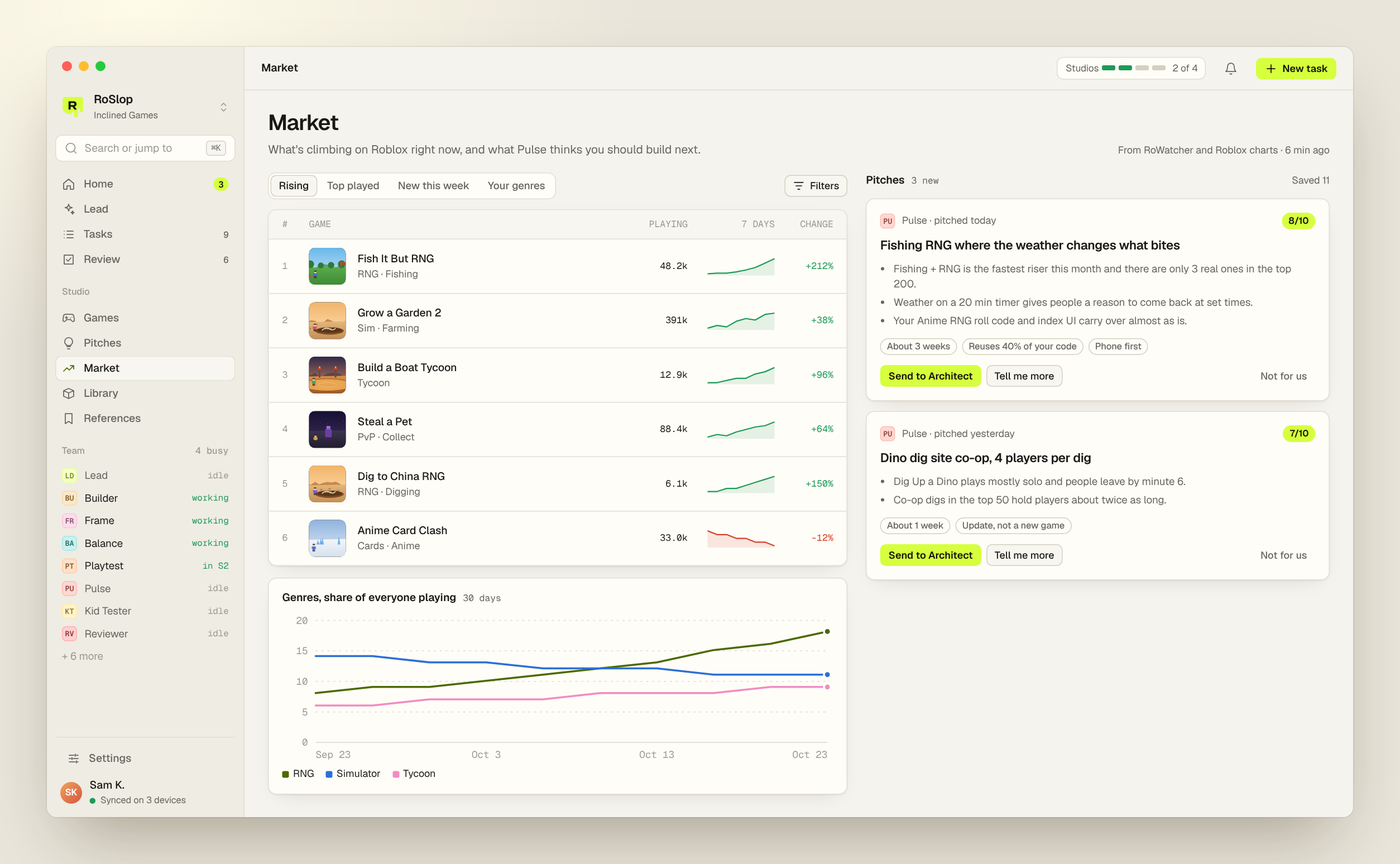
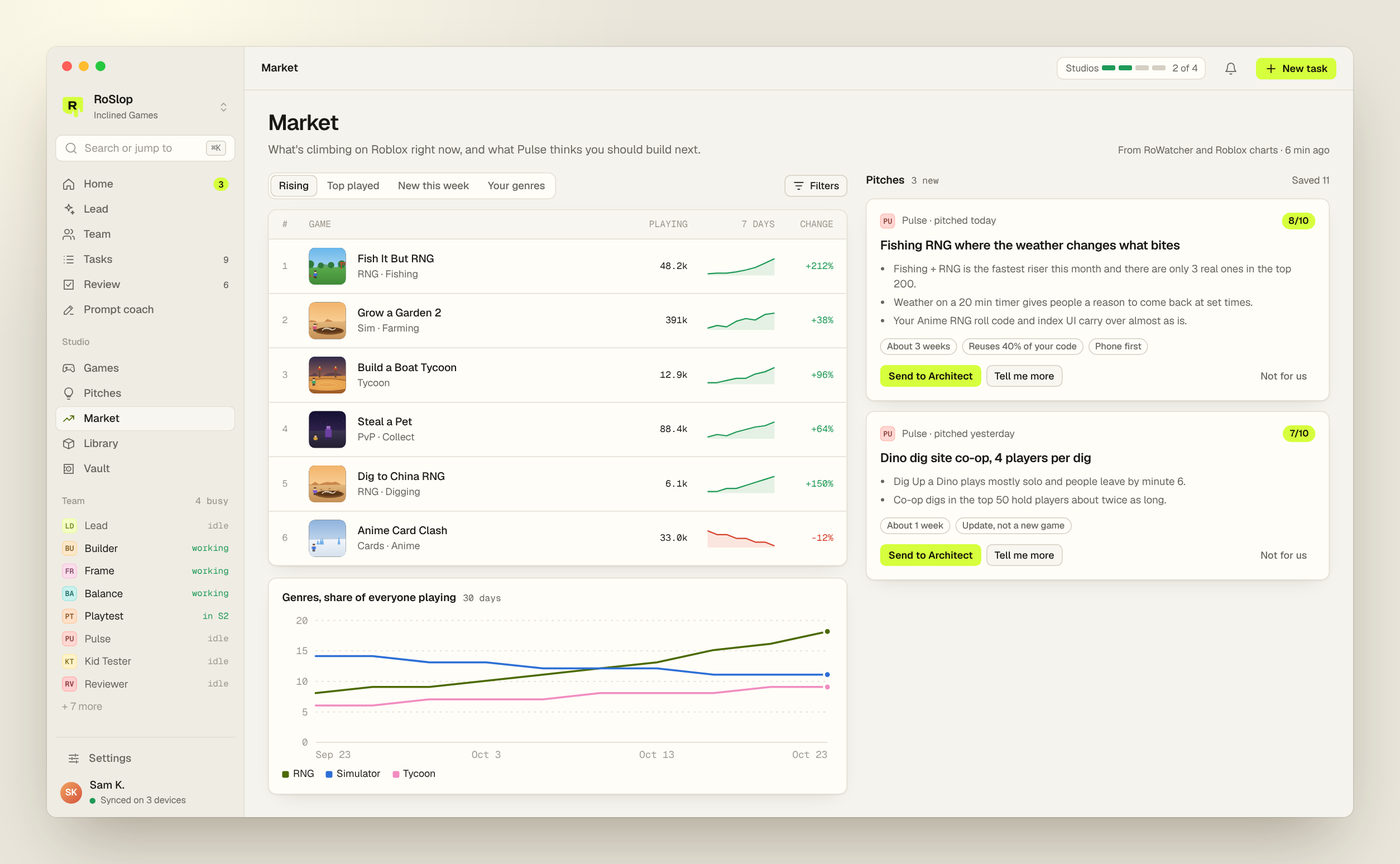
Mockups: team briefs, prompt coach, vault, pipeline, library, pitch detail
Claude-Session: https://claude.ai/code/session_01Rj7wvfXsp5qGivo9iQqRRG

Changed region(s): [[0.0311, 0.4961, 0.0933, 0.8062], [0.0311, 0.2791, 0.0933, 0.4961], [0.1244, 0.6202, 0.1555, 0.6512]]

diff --git a/design/mockups/more.js b/design/mockups/more.js
@@ -1,0 +1,285 @@
+/* ---------- Library stickers ---------- */
+const STK = {
+  gem: `<path d="M30 22h36l14 18-32 38-32-38z" fill="#58b8ff"/><path d="M30 22l8 18h20l8-18 M16 40h64 M38 40l10 38 10-38" fill="none"/><path d="M38 26l-4 10" stroke="#fff" fill="none"/>`,
+  coin: `<circle cx="48" cy="50" r="30" fill="#f7c234"/><circle cx="48" cy="50" r="21" fill="#ffd95c"/><path d="M48 36l4.5 9 10 1.5-7 7 1.6 10L48 59l-9 4.5 1.6-10-7-7 10-1.5z" fill="#f7a823"/>`,
+  chest: `<path d="M20 44h56v30H20z" fill="#b8693a"/><path d="M20 44c0-14 10-22 28-22s28 8 28 22z" fill="#d07c45"/><path d="M20 44h56v8H20z M44 40h8v16h-8z" fill="#f7c234"/>`,
+  gift: `<path d="M20 42h56v34H20z" fill="#ff6fa8"/><path d="M16 32h64v12H16z" fill="#ff8dbd"/><path d="M44 32h8v44h-8z" fill="#ffd95c"/><path d="M48 32c-6-12-20-12-18-2 2 6 12 3 18 2zm0 0c6-12 20-12 18-2-2 6-12 3-18 2z" fill="#ffd95c"/>`,
+  clover: `<circle cx="38" cy="38" r="12" fill="#3fbf5f"/><circle cx="58" cy="38" r="12" fill="#3fbf5f"/><circle cx="38" cy="58" r="12" fill="#3fbf5f"/><circle cx="58" cy="58" r="12" fill="#3fbf5f"/><path d="M48 52c4 12 10 20 18 26" fill="none"/>`,
+  egg: `<path d="M48 18c16 0 26 24 26 38s-11 22-26 22-26-8-26-22 10-38 26-38z" fill="#9fe08a"/><circle cx="40" cy="40" r="5" fill="#5aa848"/><circle cx="58" cy="54" r="7" fill="#5aa848"/><circle cx="40" cy="64" r="4" fill="#5aa848"/>`,
+  potion: `<path d="M40 18h16v16c12 4 18 14 18 24 0 14-11 22-26 22s-26-8-26-22c0-10 6-20 18-24z" fill="#b48cff"/><path d="M26 56h44c0 12-10 20-22 20s-22-8-22-20z" fill="#8a4dff"/><path d="M38 14h20v8H38z" fill="#c98b5a"/>`,
+  sword: `<path d="M62 14l14 4-4 14-30 30-10-10z" fill="#d7e3f0"/><path d="M26 58l12 12-6 6-12-12z" fill="#f7c234"/><path d="M22 70l6 6-8 8-6-6z" fill="#8a5130"/>`,
+  shovel: `<path d="M64 16l12 12-26 26-6-6z" fill="#b8693a"/><path d="M42 48l8 8-8 18c-4 6-14 6-18 2s-4-14 2-18z" fill="#c9d4df"/>`,
+  crown: `<path d="M18 34l16 12 14-22 14 22 16-12-6 38H24z" fill="#f7c234"/><circle cx="48" cy="58" r="5" fill="#ff5a5a"/><circle cx="32" cy="62" r="3.5" fill="#58b8ff"/><circle cx="64" cy="62" r="3.5" fill="#58b8ff"/>`,
+  scroll: `<path d="M28 20h40v56H28z" fill="#f3d9a4"/><rect x="22" y="14" width="52" height="10" rx="5" fill="#d9a85f"/><rect x="22" y="72" width="52" height="10" rx="5" fill="#d9a85f"/><path d="M36 36h24 M36 46h24 M36 56h16" fill="none"/>`,
+  bone: `<path d="M30 30a8 8 0 1 1 10-10l26 26a8 8 0 1 1 10 10 8 8 0 1 1-10 10L40 40a8 8 0 1 1-10-10z" fill="#f3ead6"/>`,
+};
+const sticker = k => `<svg viewBox="0 0 96 96" width="100%" height="100%" style="display:block"><g style="filter:drop-shadow(0 4px 6px rgba(0,0,0,.35))"><g class="stk-o">${STK[k]}</g><g class="stk-f">${STK[k]}</g></g></svg>`;
+
+/* ---------- Team ---------- */
+function team() {
+  const list = [
+    ["lead", "Splitting your Frostpeak ask", "working"], ["builder", "Raid lava + weekly reset", "working"], ["frame", "Loading screen fix", "working"],
+    ["balance", "Skill tree costs", "working"], ["playtest", "Waiting on Builder", "queued"], ["kid", "1 task waiting", "queued"],
+    ["scenic", "1 task waiting", "queued"], ["librarian", "Idle", "idle"], ["architect", "Idle", "idle"], ["pulse", "Watching the charts", "idle"],
+    ["splash", "Idle", "idle"], ["merchant", "Idle", "idle"], ["producer", "Checked 3 moves today", "idle"], ["reviewer", "Idle", "idle"], ["liveops", "Day 14 grade due Fri", "idle"],
+  ];
+  const pill = st => st === "working" ? `<span class="pill ok" style="height:18px">working</span>` : st === "queued" ? `<span class="pill" style="height:18px">queued</span>` : "";
+  const h = t => `<div class="mono dim" style="margin:14px 0 6px">${t}</div>`;
+  return `<div style="display:grid;grid-template-columns:300px 1fr;height:100%">
+    <div style="border-right:1px solid var(--line);padding:16px 10px;overflow:hidden">
+      <div class="row" style="padding:0 8px 10px"><b style="font-weight:600;font-size:15px">Team</b><span class="muted" style="margin-left:auto;font-size:12px">4 working · 15 total</span></div>
+      ${list.map(([k, t, st]) => `<div class="row" style="gap:10px;padding:7px 8px;border-radius:8px;${k === "builder" ? "background:var(--raise);box-shadow:inset 0 0 0 1px var(--line-2)" : ""}">${av(k)}<div class="grow" style="min-width:0"><div style="font-weight:500">${AG[k][0]}</div><div class="muted trunc" style="font-size:11.5px">${t}</div></div>${pill(st)}</div>`).join("")}
+    </div>
+    <div style="display:flex;flex-direction:column;min-height:0">
+      <div class="row" style="padding:16px 24px;border-bottom:1px solid var(--line);gap:12px">${av("builder", "lg")}<div><div class="row" style="gap:8px"><b style="font-size:15px;font-weight:600">Builder</b><span class="pill ok"><span class="dot pulse"></span>Working in Studio 2</span></div><div class="muted" style="font-size:12px">Writes the code and wires up the game · 2 queued after this</div></div>
+        <div class="grow"></div><div class="seg"><a>Chat</a><a class="on">Brief from Lead</a><a>Memory</a><a>Rules</a></div></div>
+      <div style="padding:20px 24px;display:grid;grid-template-columns:1fr 340px;gap:22px;overflow:hidden;flex:1">
+        <div class="card" style="padding:20px 22px;overflow:hidden">
+          <div class="row" style="margin-bottom:4px">${av("lead", "sm")}<span class="muted" style="font-size:12px">Lead wrote this 11m ago from your message "raid lava is broken and the weekly raid never resets"</span></div>
+          <div style="font-size:17px;font-weight:600;letter-spacing:-0.02em;margin:8px 0 2px">Raid lava + weekly raid reset</div>
+          ${h("GOAL")}<div>Lava in the Frostpeak raid should hurt, not kill instantly, and the weekly raid should reset every Monday for everyone.</div>
+          ${h("WHAT'S WRONG NOW")}<ul style="padding-left:18px;display:flex;flex-direction:column;gap:3px"><li>Lava parts use Touched and stack, so players die in under a second</li><li>The weekly timer starts when a server starts, so every server resets at a different time</li></ul>
+          ${h("DO")}<ul style="padding-left:18px;display:flex;flex-direction:column;gap:3px"><li>One damage tick per player per 0.5s, 20 damage per tick, server side</li><li>Respawn at the raid gate, not the hub</li><li>Reset on Monday 00:00 UTC using os.time, saved in the RaidState DataStore</li></ul>
+          ${h("DON'T")}<div>Touch the boss AI or the loot table. Balance owns those this week.</div>
+          ${h("DONE WHEN")}<div>A 2 player test survives 10s in lava, and changing the clock to Monday resets the raid on two separate servers.</div>
+          ${h("READ FIRST")}<div class="row" style="gap:6px;flex-wrap:wrap">${["Vault / Raids and bosses", "Vault / Saving data safely", "Library / RaidState system"].map(t => `<span class="pill">${ic("vault", "width:12px;height:12px")}${t}</span>`).join("")}</div>
+          ${h("SEND BACK")}<div>A 15s clip of the lava and the diff. Playtest runs it after you.</div>
+          <div class="row" style="margin-top:16px;gap:8px"><button class="btn sm">${ic("prompt", "width:14px;height:14px")}Edit brief</button><span class="muted" style="font-size:12px">Edits go to Builder right away. The Lead sees them too.</span></div>
+        </div>
+        <div style="display:flex;flex-direction:column;gap:12px;min-height:0">
+          <div class="sec-h" style="margin:0"><h3>Live</h3><span class="c">Studio 2</span></div>
+          ${thumb("arena", 9, { tag: "S2 LIVE", hud: "BUILDER", vfxSize: 30, vfx: "#ff6a2a", sparks: 12, k: "tm" })}
+          <div class="card" style="padding:4px 14px">
+            ${[["11:02", "Read the 3 notes in Read first"], ["11:04", "Found 14 lava parts using Touched"], ["11:06", "Wrote RaidLava.server.lua"], ["11:09", "Weekly reset now uses os.time"], ["now", "Testing with 2 players"]].map(([t, l], i) => `<div class="row" style="gap:10px;padding:7px 0;${i ? "border-top:1px solid var(--line)" : ""}"><span class="mono dim" style="width:34px">${t}</span><span class="${t === "now" ? "" : "muted"}" style="font-size:12.5px">${l}</span></div>`).join("")}
+          </div>
+          <div class="input" style="margin-top:auto">${ic("msg")}Message Builder directly</div>
+        </div>
+      </div>
+    </div>
+  </div>`;
+}
+
+/* ---------- Prompt coach ---------- */
+function promptCoach() {
+  const check = (ok, t, hint) => `<div class="row" style="gap:10px;padding:8px 0;border-top:1px solid var(--line);align-items:flex-start"><span style="width:18px;height:18px;border-radius:99px;display:grid;place-items:center;flex:none;background:${ok ? "color-mix(in srgb,var(--ok) 18%,transparent)" : "color-mix(in srgb,var(--warn) 18%,transparent)"};color:${ok ? "var(--ok)" : "var(--warn)"}">${ic(ok ? "check" : "plus", "width:11px;height:11px;stroke-width:2.5")}</span><div class="grow"><div style="font-weight:500">${t}</div>${hint ? `<div class="muted" style="font-size:12px">${hint}</div>` : ""}</div></div>`;
+  const add = t => `<span style="background:color-mix(in srgb,var(--accent) 16%,transparent);box-shadow:inset 0 -1px 0 var(--accent-text);border-radius:3px;padding:0 2px">${t}</span>`;
+  const tpl = [["New boss fight", "Moves, phases, arena, who it's for"], ["I found a bug", "What you did, what happened, what you expected"], ["First 5 minutes", "Where people quit and what they should feel"], ["Copy a feeling", "Drop a clip, say what you like about it"], ["Add a shop item", "Price, who buys it, what it can't break"], ["Balance pass", "What feels too slow or too fast, and when"]];
+  return `
+  <div class="row" style="align-items:flex-end;margin-bottom:18px"><div class="grow"><h1 class="page">Prompt coach</h1><p class="lede">Write it however you want. This shows what the agents will have to guess, and fixes it before it goes to the Lead.</p></div></div>
+  <div style="display:grid;grid-template-columns:1fr 1fr;gap:20px">
+    <div style="display:flex;flex-direction:column;gap:14px">
+      <div class="card" style="padding:16px">
+        <div class="row" style="margin-bottom:10px"><b style="font-weight:600">What you wrote</b><span class="pill" style="margin-left:auto">Anime Awakening RNG</span></div>
+        <div style="font-size:15px;line-height:1.5;min-height:60px">add a boss to frostpeak thats actually hard, like dark souls hard. players are bored</div>
+        <div class="row" style="margin-top:14px;gap:12px"><div class="grow"><div class="row" style="font-size:12px"><span class="muted grow">How much the agents have to guess</span><b style="color:var(--warn)">a lot</b></div><div class="bar" style="margin-top:6px;height:6px"><i style="width:30%;background:var(--warn)"></i></div></div></div>
+      </div>
+      <div class="card" style="padding:6px 16px 8px">
+        ${check(true, "Which game and where", "Frostpeak, Anime Awakening RNG")}
+        ${check(true, "Why you want it", "Players are bored. Good, the Lead will check the data on that")}
+        ${check(false, "Who should be able to beat it", "Level 30 squad? Only the top 5%? This changes everything about the numbers")}
+        ${check(false, "What hard means to you", "More HP is the lazy version. Dodgeable attacks? Phases? A timer?")}
+        ${check(false, "When it's done", "e.g. Playtest beats it in 3 to 6 tries with a level 30 squad")}
+        ${check(false, "A reference", "A clip or a boss you like. Drag one in or pick from References")}
+      </div>
+      <div class="card" style="padding:14px 16px"><div style="font-weight:600;margin-bottom:8px">Quick answers</div>
+        <div class="muted" style="font-size:12px;margin-bottom:8px">Who should beat it?</div>
+        <div class="row" style="gap:6px;flex-wrap:wrap">${["Anyone past level 20", "Level 30 squads", "Top 5% only", "4 player raids"].map((t, i) => `<span class="pill ${i === 1 ? "acc" : ""}" style="height:26px;padding:0 10px">${t}</span>`).join("")}</div>
+        <div class="muted" style="font-size:12px;margin:12px 0 8px">What makes it hard?</div>
+        <div class="row" style="gap:6px;flex-wrap:wrap">${["Attacks you can dodge", "Phases", "Adds", "Enrage timer", "More HP"].map((t, i) => `<span class="pill ${i < 2 ? "acc" : ""}" style="height:26px;padding:0 10px">${t}</span>`).join("")}</div>
+      </div>
+    </div>
+    <div style="display:flex;flex-direction:column;gap:14px">
+      <div class="card" style="padding:16px;border-color:var(--line-2)">
+        <div class="row" style="margin-bottom:10px"><b style="font-weight:600">What the Lead will get</b><span class="muted" style="margin-left:auto;font-size:12px">${add("highlighted")} = added from your answers</span></div>
+        <div style="font-size:13.5px;line-height:1.6;display:flex;flex-direction:column;gap:8px">
+          <p>Add a new boss to Frostpeak in Anime Awakening RNG. Players say it's boring right now, so this should be the fight people talk about.</p>
+          <p>It's for ${add("level 30 squads")}. Hard should come from ${add("attacks you can see coming and dodge, and 3 phases")}, not from a huge HP bar.</p>
+          <p>Done when ${add("Playtest beats it in 3 to 6 tries with a level 30 squad, and a level 20 squad can't")}.</p>
+          <p>${add("Look at the Lord Frozza fight for what not to repeat: the red floor covered everything.")}</p>
+        </div>
+        <div class="row" style="gap:8px;margin-top:16px"><button class="btn pri">${ic("up", "width:14px;height:14px")}Send to Lead</button><button class="btn">${ic("copy", "width:14px;height:14px")}Copy</button><button class="btn ghost">Send mine as is</button></div>
+      </div>
+      <div class="card" style="padding:16px">
+        <div class="sec-h"><h3>Start from a template</h3><span class="r">Make your own</span></div>
+        <div style="display:grid;grid-template-columns:1fr 1fr;gap:8px">${tpl.map(([t, d]) => `<div class="card" style="box-shadow:none;background:var(--raise);padding:10px 12px"><div style="font-weight:500">${t}</div><div class="muted" style="font-size:12px">${d}</div></div>`).join("")}</div>
+      </div>
+      <div class="card" style="padding:14px 16px">
+        <div style="font-weight:600;margin-bottom:6px">Things that actually help</div>
+        <ul class="muted" style="padding-left:16px;font-size:12.5px;display:flex;flex-direction:column;gap:3px"><li>Say what done looks like. The agents stop guessing when they know where the finish line is.</li><li>One clip beats three paragraphs about a vibe.</li><li>Say what not to touch. Otherwise someone will "improve" it.</li></ul>
+      </div>
+    </div>
+  </div>`;
+}
+
+/* ---------- Vault ---------- */
+function vault() {
+  const chapters = ["Start here", "The first five minutes", "Core loop", "Rolls and rarity", "Economy and progression", "UI and HUD", "World and lighting", "VFX, models and sound", "Phones", "Shops", "Coming back tomorrow", "Thumbnails and icons", "Updates and events", "Code that doesn't break"];
+  const counts = [3, 12, 9, 16, 21, 18, 11, 14, 8, 10, 9, 7, 6, 22];
+  const learned = [
+    ["playtest", "Sell buttons on phones go above the chat box", "From playtest run #14 · Dig Up a Dino", "Phones"],
+    ["balance", "Cap hero power at 4x a common, two exceptions", "You decided this on Oct 23", "Rolls and rarity"],
+    ["reviewer", "Save before you grant a daily reward, never after", "From a blocked ship · Dig Up a Dino", "Code that doesn't break"],
+  ];
+  return `<div style="display:grid;grid-template-columns:250px 1fr 330px;height:100%">
+    <div style="border-right:1px solid var(--line);padding:18px 12px;overflow:hidden">
+      <div class="row" style="padding:0 6px 4px"><b style="font-weight:600;font-size:15px">Vault</b><span class="mono dim" style="margin-left:auto">166 notes</span></div>
+      <div class="muted" style="font-size:11.5px;padding:0 6px 12px" class="trunc">~/Documents/Inclined Vault</div>
+      ${chapters.map((c, i) => `<div class="row" style="gap:8px;height:28px;padding:0 6px;border-radius:6px;font-size:12.5px;${i === 3 ? "background:var(--raise);box-shadow:inset 0 0 0 1px var(--line-2);font-weight:500" : "color:var(--muted)"}"><span class="mono dim" style="width:18px">${String(i).padStart(2, "0")}</span><span class="grow trunc">${c}</span><span class="mono dim">${counts[i]}</span></div>`).join("")}
+      <div class="row" style="gap:8px;height:28px;padding:0 6px;font-size:12.5px;color:var(--accent-text);margin-top:4px">${ic("plus", "width:13px;height:13px")}New chapter</div>
+    </div>
+    <div style="padding:22px 28px;overflow:hidden">
+      <div class="row" style="margin-bottom:14px;gap:8px"><span class="muted" style="font-size:12px">Vault</span>${ic("right", "width:12px;height:12px;color:var(--dim)")}<span class="muted" style="font-size:12px">03 Rolls and rarity</span><div class="grow"></div><button class="btn sm">${ic("ext", "width:13px;height:13px")}Open in Obsidian</button></div>
+      <h1 class="page" style="font-size:24px">Rolls and rarity</h1>
+      <div class="card" style="box-shadow:none;padding:10px 14px;margin:14px 0;background:var(--raise)">
+        <div class="row" style="gap:12px;padding:3px 0"><span class="muted" style="width:90px;font-size:12px">Read by</span>${["balance", "architect"].map(k => `<span class="row" style="gap:5px">${av(k, "sm")}${AG[k][0]}</span>`).join("")}</div>
+        <div class="row" style="gap:12px;padding:3px 0"><span class="muted" style="width:90px;font-size:12px">Also checks it</span>${["builder", "merchant", "frame"].map(k => `<span class="row" style="gap:5px">${av(k, "sm")}${AG[k][0]}</span>`).join("")}</div>
+        <div class="row" style="gap:12px;padding:3px 0"><span class="muted" style="width:90px;font-size:12px">Last edit</span><span>Balance, 2 days ago · you approved it</span></div>
+      </div>
+      <div style="display:flex;flex-direction:column;gap:10px;font-size:13.5px;line-height:1.6;max-width:640px">
+        <p>Any game where you roll, open, hatch, dig or spin for something lives or dies on how the odds feel. This is what we've learned about making a rare pull feel worth the wait.</p>
+        <h3 style="font-size:15px;margin-top:6px">Rules we stick to</h3>
+        <ol style="padding-left:20px;display:flex;flex-direction:column;gap:5px">
+          <li><b>Show the odds.</b> Players trust a 1 in 2.5M they can see more than a mystery.</li>
+          <li><b>Pity, always.</b> After a bad streak the next roll gets better. Nobody should go 10,000 rolls with nothing.</li>
+          <li><b>Duplicates are never junk.</b> They turn into upgrade material or index progress.</li>
+          <li><b>The reveal is half the reward.</b> Rarer means a longer, louder reveal, but skippable after the first time.</li>
+          <li><b>Power caps at 4x.</b> Past that, people who get lucky early stop playing. <span class="pill info" style="height:18px">added Oct 23</span></li>
+        </ol>
+        <div class="row" style="gap:10px;margin-top:4px">${thumb("night", 41, { tag: "GOOD · slow reveal", vfxSize: 40, vfx: "#b48cff", sparks: 20, k: "v1", style: "width:220px" })}${thumb("grove", 42, { tag: "BAD · instant popup", guys: 2, k: "v2", style: "width:220px" })}</div>
+      </div>
+    </div>
+    <div style="border-left:1px solid var(--line);padding:20px;display:flex;flex-direction:column;gap:16px;background:var(--side)">
+      <div class="card" style="padding:16px">
+        <div style="font-weight:600;margin-bottom:4px">Grow it with the agents</div>
+        <div class="muted" style="font-size:12.5px;margin-bottom:12px">Starting from nothing, or yours is thin? The agents write notes from your games, your Review history and what's working on the charts. You approve every page.</div>
+        <button class="btn pri" style="width:100%;justify-content:center">${ic("lead", "width:14px;height:14px")}Start building the vault</button>
+        <div class="dim" style="font-size:11.5px;margin-top:8px;text-align:center">Takes about an hour on your PC</div>
+      </div>
+      <div><div class="sec-h"><h3>Learned this week</h3><span class="c">3 to approve</span></div>
+        <div style="display:flex;flex-direction:column;gap:8px">${learned.map(([k, t, src, ch]) => `<div class="card" style="padding:12px 14px"><div class="row" style="margin-bottom:5px">${av(k, "sm")}<span class="muted" style="font-size:11.5px">${AG[k][0]} · into ${ch}</span></div><div style="font-weight:500;line-height:1.35">${t}</div><div class="dim" style="font-size:11.5px;margin-top:3px">${src}</div><div class="row" style="gap:6px;margin-top:10px"><button class="btn sm">Add to vault</button><button class="btn sm ghost">Skip</button></div></div>`).join("")}</div>
+      </div>
+      <div class="row muted" style="gap:8px;font-size:12px;margin-top:auto">${ic("reload", "width:13px;height:13px")}Watching the folder. Edits in Obsidian show up here.</div>
+    </div>
+  </div>`;
+}
+
+/* ---------- Pipeline ---------- */
+function pipeline() {
+  const cols = [
+    ["Pitched", "pulse", [["Dino co-op digs", "update", 2]]],
+    ["Designed", "architect", [["Fishing weather RNG", "new game", 4]]],
+    ["Assets ready", "librarian", []],
+    ["Built", "builder", []],
+    ["Balanced", "balance", [["Dig Up a Dino", "v0.9", 7, true]]],
+    ["Art done", "splash", []],
+    ["Ready to publish", "producer", [["Anime Awakening RNG", "v1.5", 11]]],
+    ["Live", null, [["Anime Awakening RNG", "v1.4", 0, false, true]]],
+    ["Graded", "liveops", [["Anime Awakening RNG", "v1.3", 0, false, false, "Day 14: 18% came back"]]],
+  ];
+  const card = ([n, v, proof, moving, live, grade]) => `<div class="card" style="padding:11px 12px;${moving ? "box-shadow:inset 0 0 0 1.5px var(--ok)" : ""}">
+    <div style="font-weight:600;font-size:12.5px;line-height:1.3">${n}</div><div class="mono dim" style="margin-top:2px">${v}</div>
+    ${grade ? `<div class="muted" style="font-size:11.5px;margin-top:8px">${grade}</div>` : ""}
+    ${proof ? `<div class="row" style="gap:6px;margin-top:8px;font-size:11.5px" class="muted">${ic("review", "width:12px;height:12px;color:var(--muted)")}<span class="muted">${proof} pieces of proof</span></div>` : ""}
+    ${moving ? `<div class="row" style="gap:6px;margin-top:8px">${av("producer", "sm")}<span style="font-size:11.5px;color:var(--ok)">Producer checking the move</span></div>` : ""}
+    ${live ? `<div class="row" style="gap:6px;margin-top:8px"><span class="dot pulse"></span><span style="font-size:11.5px">214 playing</span></div>` : ""}
+    ${n === "Anime Awakening RNG" && v === "v1.5" ? `<button class="btn sm pri" style="width:100%;justify-content:center;margin-top:10px">Publish</button>` : ""}
+  </div>`;
+  return `
+  <div class="row" style="align-items:flex-end;margin-bottom:18px"><div class="grow"><h1 class="page">Pipeline</h1><p class="lede">Every game and update, stage by stage. Agents move the cards, Producer checks the proof on every move, and only you can publish.</p></div>
+    <div class="seg"><a class="on">Board</a><a>List</a></div></div>
+  <div style="display:grid;grid-template-columns:repeat(9,1fr);gap:10px;align-items:start">
+    ${cols.map(([name, who, cards]) => `<div style="min-width:0">
+      <div class="row" style="gap:6px;margin-bottom:8px;padding:0 2px">${who ? av(who, "sm") : `<span class="av sm" style="--c:#d6ff3d">${ic("user", "width:11px;height:11px")}</span>`}<b style="font-size:12px;font-weight:600" class="trunc">${name}</b><span class="mono dim" style="margin-left:auto">${cards.length}</span></div>
+      <div style="display:flex;flex-direction:column;gap:8px;min-height:420px;padding:6px;border-radius:10px;background:color-mix(in srgb,var(--panel) 50%,transparent);border:1px dashed var(--line)">
+        ${cards.map(card).join("")}
+        ${name === "Live" ? `<div class="dim" style="font-size:11px;text-align:center;padding:6px">Only you can move things here</div>` : ""}
+      </div></div>`).join("")}
+  </div>
+  <div class="card" style="padding:12px 16px;margin-top:16px"><div class="row" style="gap:12px">${av("producer")}<div class="grow"><b style="font-weight:600">Dig Up a Dino wants to move to Art done</b><div class="muted" style="font-size:12px">Balance ran 500 sims, first upgrade lands at 4m 10s, nobody stalls past 9 minutes. 7 pieces of proof attached.</div></div><button class="btn sm">See the proof</button><button class="btn sm ghost">Hold it</button></div></div>`;
+}
+
+/* ---------- Library ---------- */
+function library() {
+  const items = [["gem", "Gem", "icon", "1452 0198 3341"], ["chest", "Daily chest", "icon", "1452 0198 7712"], ["coin", "Coin", "icon", "1452 0201 0042"], ["gift", "Free gift", "icon", "1452 0201 2219"], ["clover", "Luck", "icon", "1452 0203 4410"], ["potion", "Luck potion", "icon", "1452 0203 9981"],
+    ["egg", "Dino egg", "model", "1452 1102 3301"], ["sword", "Starter sword", "model", "1452 1102 5520"], ["shovel", "Shovel", "model", "1452 1104 0007"], ["crown", "VIP", "icon", "1452 0207 1178"], ["scroll", "Quests", "icon", "1452 0207 6602"], ["bone", "Fossil", "model", "not uploaded"]];
+  return `
+  <div class="row" style="align-items:flex-end;margin-bottom:16px"><div class="grow"><h1 class="page">Library</h1><p class="lede">Everything you own and can reuse. Every new task checks here first, so the agents don't make a fourth coin icon.</p></div>
+    <button class="btn pri">${ic("upload", "width:14px;height:14px")}Upload</button></div>
+  <div class="row" style="margin-bottom:14px;gap:10px"><div class="seg"><a class="on">Assets <span class="mono">214</span></a><a>Systems <span class="mono">38</span></a><a>References <span class="mono">52</span></a></div>
+    <div class="seg"><a class="on">All</a><a>Models</a><a>Icons</a><a>Sounds</a><a>VFX</a><a>UI</a></div><div class="grow"></div>
+    <div class="input" style="width:240px">${ic("search")}Search names or asset ids</div><button class="btn">Any game ${ic("down", "width:13px;height:13px")}</button></div>
+  <div class="card" style="padding:16px 18px;margin-bottom:16px;border-style:dashed;box-shadow:none;display:flex;align-items:center;gap:14px">
+    <span style="width:40px;height:40px;border-radius:10px;background:var(--raise);display:grid;place-items:center;color:var(--accent-text)">${ic("upload")}</span>
+    <div class="grow"><div style="font-weight:600">Drop files anywhere on this page</div><div class="muted" style="font-size:12.5px">Images, .fbx, .obj, .rbxm, .mp3 and .ogg. They get uploaded to Roblox, get an asset id, and the agents can use them in the next task.</div></div>
+    <div class="row muted" style="gap:6px;font-size:12px"><span class="dot"></span>2 uploading</div>
+  </div>
+  <div style="display:grid;grid-template-columns:repeat(6,1fr);gap:12px">
+    ${items.map(([k, n, t, id]) => `<div class="card" style="padding:10px;box-shadow:none">
+      <div style="aspect-ratio:1;border-radius:8px;background:radial-gradient(circle at 50% 40%,var(--hover),var(--raise));display:grid;place-items:center;padding:16%">${sticker(k)}</div>
+      <div class="row" style="margin-top:8px"><b style="font-weight:600" class="grow">${n}</b><span class="pill" style="height:18px;font-size:10px">${t}</span></div>
+      <div class="mono ${id.startsWith("not") ? "" : "dim"}" style="margin-top:3px;${id.startsWith("not") ? "color:var(--warn)" : ""}">${id.startsWith("not") ? "not uploaded yet" : "rbx " + id}</div></div>`).join("")}
+  </div>`;
+}
+
+/* ---------- Pitch ---------- */
+function pitch() {
+  const stat = (l, v, s, c) => `<div class="card" style="padding:12px 14px;box-shadow:none"><div class="mono dim">${l}</div><div style="font-size:21px;font-weight:600;letter-spacing:-0.02em;margin-top:2px;${c ? `color:${c}` : ""}">${v}</div><div class="muted" style="font-size:11.5px">${s}</div></div>`;
+  const row = (k, v) => `<div class="row" style="align-items:flex-start;gap:16px;padding:8px 0;border-top:1px solid var(--line)"><span class="muted" style="width:150px;flex:none">${k}</span><span>${v}</span></div>`;
+  return `
+  <div class="row" style="margin-bottom:14px;gap:10px"><div class="seg"><a class="on">Needs your call <span class="mono">3</span></a><a>Waiting on Pulse <span class="mono">1</span></a><a>Your ideas <span class="mono">2</span></a><a>History</a></div><div class="grow"></div><button class="btn">${ic("grid", "width:14px;height:14px")}Compare side by side</button><button class="btn pri">${ic("plus", "width:14px;height:14px")}I have an idea</button></div>
+  <div style="display:grid;grid-template-columns:1fr 320px;gap:20px">
+    <div class="card" style="overflow:hidden">
+      <div style="display:flex;gap:16px;padding:20px 22px;border-bottom:1px solid var(--line)">
+        <div style="width:96px;flex:none">${thumb("grove", 51, { ar: "1/1", guys: 1, vfxSize: 20, vfx: "#7fd0ff", sparks: 6, style: "border-radius:14px" })}</div>
+        <div class="grow"><div class="row" style="gap:6px;margin-bottom:8px">${["early window", "RNG + fishing", "new game"].map((t, i) => `<span class="pill ${i === 0 ? "ok" : ""}">${t}</span>`).join("")}<span class="pill acc" style="margin-left:auto">8/10</span></div>
+          <div style="font-size:22px;font-weight:600;letter-spacing:-0.025em">Fishing RNG where the weather changes what bites</div>
+          <div class="muted" style="margin-top:4px">Cast, wait, reel, roll for what's on the hook. Every 20 minutes the weather flips and a different set of fish shows up.</div></div>
+      </div>
+      <div style="padding:18px 22px">
+        <div class="card" style="box-shadow:none;padding:12px 14px;background:var(--raise);margin-bottom:14px"><div class="mono dim" style="margin-bottom:4px">WHY THIS ONE</div>
+          <div>Fish It But RNG went from 2k to 48k players in 3 weeks and almost nobody has copied it well yet. The weather timer is the twist: it gives people a reason to come back at set times, which none of the top 3 have.</div>
+          <div class="row" style="gap:6px;margin-top:8px"><span class="pill">vs Fish It But RNG</span><span class="pill">vs Reel Legends</span></div></div>
+        <div style="display:grid;grid-template-columns:repeat(5,1fr);gap:8px;margin-bottom:16px">
+          ${stat("TOP EARNING", "#38", "Fish It But RNG", "var(--accent-text)")}${stat("PLAYING NOW", "48.2k", "top comparable")}${stat("LIKES", "92%", "80%+ gets pushed", "var(--ok)")}${stat("UPVOTES / DAY", "3.1k", "still climbing")}${stat("SIMILAR GAMES", "3", "in the top 200")}
+        </div>
+        <div style="font-weight:600;margin-bottom:4px">The game</div>
+        ${row("First 60 seconds", "Grab the free rod, cast off the dock, land a common in under 20 seconds and see the roll odds on screen.")}
+        ${row("By minute 15", "First rare in rain weather and enough coins for rod #2, which unlocks the lake.")}
+        ${row("Minutes 15 to 30", "Weather flips to fog. New fish, so the index has fresh blanks to fill.")}
+        ${row("How it makes money", "2x luck, a weather skip, and boats as cosmetics. Nothing that wins the leaderboard.")}
+        ${row("The clip moment", "A 1 in a million fish breaking the water during a thunderstorm.")}
+        ${row("Reuses", `<span class="row" style="gap:6px;flex-wrap:wrap"><span class="pill">${ic("library", "width:11px;height:11px")}Roll + reveal system</span><span class="pill">${ic("library", "width:11px;height:11px")}Index UI</span><span class="pill">${ic("library", "width:11px;height:11px")}Daily chest</span></span>`)}
+      </div>
+      <div class="row" style="gap:8px;padding:14px 22px;border-top:1px solid var(--line);background:var(--raise)"><button class="btn pri">${ic("check", "width:14px;height:14px")}Approve</button><button class="btn">Edit and approve</button><button class="btn">Ask for changes</button><div class="grow"></div><button class="btn ghost">Decline</button></div>
+    </div>
+    <div style="display:flex;flex-direction:column;gap:14px">
+      <div class="card" style="padding:14px 16px"><div class="sec-h"><h3>Evidence</h3><span class="c">3</span></div>
+        ${[["Fish It But RNG", "48.2k", "+212%", [2, 3, 3, 5, 8, 12, 19, 26]], ["Reel Legends", "9.1k", "+18%", [6, 6, 7, 7, 8, 8, 9, 9]], ["Weather RNG", "2.4k", "+41%", [2, 2, 3, 3, 3, 4, 4, 5]]].map(([n, c, ch, d], i) => `<div class="row" style="gap:10px;padding:8px 0;${i ? "border-top:1px solid var(--line)" : ""}"><div class="grow"><div style="font-weight:500">${n}</div><div class="mono dim">${c} playing</div></div>${spark(d, 60, 20)}<span class="mono" style="color:var(--ok);width:44px;text-align:right">${ch}</span></div>`).join("")}
+        <div class="muted" style="font-size:11.5px;margin-top:6px">From RoWatcher and Roblox charts, 6 min ago</div></div>
+      <div class="card" style="padding:14px 16px"><div class="sec-h"><h3>Risks</h3><span class="c">2</span></div>
+        <ul class="muted" style="padding-left:16px;font-size:12.5px;display:flex;flex-direction:column;gap:5px"><li>If Fish It ships its own weather update first, the twist is gone. Pulse is watching their changelog.</li><li>Water and fishing line physics are new for the team. Builder thinks 3 days on its own.</li></ul></div>
+      <div class="card" style="padding:14px 16px"><div class="sec-h"><h3>Building it</h3></div>
+        <div class="muted" style="font-size:12.5px">About 3 weeks with the current team. Architect writes the plan the moment you approve.</div></div>
+    </div>
+  </div>`;
+}
+
+Object.assign(SHOTS, {
+  "mac-app-team": { stage: "warm", w: 1560, h: 960, html: () => `<div class="window" style="width:1560px;height:960px">
+    <div class="body">${shell("team", `<b>Team</b><span class="dim">·</span><span>Builder</span>`, team(), { mac: true, pad: "padding:0" })}</div></div>` },
+  "windows-app-prompt": { stage: "win", w: 1560, h: 1000, html: () => `<div class="window win" style="width:1560px;height:1000px">
+    <div class="winbar">${logo(16)}<span class="ttl">RoSlop</span><div class="ctl">${winCtl}</div></div>
+    <div class="body">${shell("prompt", `<b>Prompt coach</b>`, promptCoach(), { win: true })}</div></div>` },
+  "mac-app-vault": { stage: "paper", w: 1560, h: 960, html: () => `<div class="window" style="width:1560px;height:960px">
+    <div class="body">${shell("vault", `<b>Vault</b><span class="dim">·</span><span>Rolls and rarity</span>`, vault(), { mac: true, light: true, pad: "padding:0" })}</div></div>` },
+  "pc-site-pipeline": { stage: "win", w: 1600, h: 960, html: () => `<div class="window" style="width:1600px;height:960px">
+    <div class="chrome"><div class="tabs"><div class="tab on">${logo(14)}<span>Pipeline · RoSlop</span><span class="x">✕</span></div><span style="padding:0 10px 8px;color:#888">+</span><div class="ctl">${winCtl}</div></div>
+    <div class="bar2"><div class="navb">${ic("left")}${ic("right")}${ic("reload")}</div><div class="omni">${ic("lock", "width:13px;height:13px;color:#8a8a8f")}<span>roslop.app<span class="path">/games/pipeline</span></span></div>${ic("user", "color:#8a8a8f")}</div></div>
+    <div class="body">${shell("games", `<span>Games</span>${ic("right", "width:13px;height:13px")}<b>Pipeline</b>`, pipeline(), { win: true })}</div></div>` },
+  "windows-app-library": { stage: "win", w: 1560, h: 960, html: () => `<div class="window win" style="width:1560px;height:960px">
+    <div class="winbar">${logo(16)}<span class="ttl">RoSlop</span><div class="ctl">${winCtl}</div></div>
+    <div class="body">${shell("library", `<b>Library</b>`, library(), { win: true })}</div></div>` },
+  "mac-site-pitch": { stage: "warm", w: 1560, h: 1000, html: () => `<div class="window" style="width:1560px;height:1000px">
+    <div class="safari dark"><div class="lights"><i></i><i></i><i></i></div><div class="tools">${ic("left")}${ic("right")}</div><div class="url">${ic("lock", "width:12px;height:12px")}roslop.app</div><div class="tools">${ic("upload")}${ic("plus")}${ic("copy")}</div></div>
+    <div class="body">${shell("pitches", `<b>Pitches</b>`, pitch())}</div></div>` },
+});

diff --git a/design/mockups/ui.js b/design/mockups/ui.js
@@ -42,6 +42,8 @@ const P = {
   sun: "M12 17a5 5 0 1 0 0-10 5 5 0 0 0 0 10z M12 1v2 M12 21v2 M4.2 4.2l1.4 1.4 M18.4 18.4l1.4 1.4 M1 12h2 M21 12h2",
   grid: "M4 4h7v7H4z M13 4h7v7h-7z M4 13h7v7H4z M13 13h7v7h-7z",
   upload: "M12 20V8 M6 14l6-6 6 6 M4 4h16",
+  prompt: "M4 20h4L19 9l-4-4L4 16z M13 7l4 4 M15 20h5",
+  vault: "M4 4h16v16H4z M12 8a4 4 0 1 0 0 8 4 4 0 0 0 0-8z M12 12h.01 M4 9h2 M4 15h2",
   globe: "M12 22a10 10 0 1 0 0-20 10 10 0 0 0 0 20z M2 12h20 M12 2a15 15 0 0 1 0 20 M12 2a15 15 0 0 0 0 20",
 };
 const ic = (n, s = "") => `<svg class="i" viewBox="0 0 24 24" style="${s}"><path d="${P[n]}"/></svg>`;
@@ -62,6 +64,7 @@ const AG = {
   merchant: ["Merchant", "ME", "#e8c46a"],
   producer: ["Producer", "PR", "#9fb3c8"],
   reviewer: ["Reviewer", "RV", "#ff6262"],
+  liveops: ["Liveops", "LO", "#7ee0ff"],
 };
 const av = (k, cls = "") => `<span class="av ${cls}" style="--c:${AG[k][2]}">${AG[k][1]}</span>`;
 
@@ -180,9 +183,9 @@ function bars({ w = 560, h = 190, data, hi = 0, color = "var(--info)", xl = [] }
 
 function sidebar(on, o = {}) {
   const nav = [
-    ["home", "Home", "3", true], ["lead", "Lead"], ["tasks", "Tasks", "9"], ["review", "Review", "6"],
+    ["home", "Home", "3", true], ["lead", "Lead"], ["team", "Team"], ["tasks", "Tasks", "9"], ["review", "Review", "6"], ["prompt", "Prompt coach"],
   ];
-  const studio = [["games", "Games"], ["pitches", "Pitches"], ["market", "Market"], ["library", "Library"], ["refs", "References"]];
+  const studio = [["games", "Games"], ["pitches", "Pitches"], ["market", "Market"], ["library", "Library"], ["vault", "Vault"]];
   const link = ([k, label, n, hot]) => `<a class="${k === on ? "on" : ""}">${ic(k)}${label}${n ? `<span class="n ${hot ? "hot" : ""}">${n}</span>` : ""}</a>`;
   const team = [["lead", "idle"], ["builder", "working"], ["frame", "working"], ["balance", "working"], ["playtest", "in S2"], ["pulse", "idle"], ["kid", "idle"], ["reviewer", "idle"]];
   return `<aside class="side">${o.mac ? `<div class="lights"><i></i><i></i><i></i></div>` : ""}
@@ -193,7 +196,7 @@ function sidebar(on, o = {}) {
     <nav class="nav">${studio.map(link).join("")}</nav>
     <div class="nav-h" style="display:flex">Team <span style="margin-left:auto" class="mono">4 busy</span></div>
     <div class="team">${team.map(([k, st]) => `<div class="m ${st === "idle" ? "" : "busy"}">${av(k, "sm")}${AG[k][0]}<span class="st">${st}</span></div>`).join("")}
-      <div class="m dim" style="color:var(--dim)">+ 6 more</div></div>
+      <div class="m dim" style="color:var(--dim)">+ 7 more</div></div>
     <div class="side-foot">
       <nav class="nav"><a class="${on === "settings" ? "on" : ""}">${ic("settings")}Settings</a></nav>
       <div class="me"><span class="pfp">SK</span><div class="grow"><div style="font-weight:500">Sam K.</div><div class="sync"><span class="dot"></span>Synced on 3 devices</div></div></div>
@@ -770,8 +773,3 @@ const SHOTS = {
   </div>` },
 };
 
-const key = new URLSearchParams(location.search).get("s") || "pc-site";
-const shot = SHOTS[key];
-document.body.className = "stage " + shot.stage;
-document.body.innerHTML = shot.html();
-window.SHOT = shot;

diff --git a/design/mockups/base.css b/design/mockups/base.css
@@ -141,3 +141,6 @@ h1.page { font-size: 26px; font-weight: 600; letter-spacing: -0.03em; line-heigh
 .thumb .tag { position: absolute; left: 8px; top: 8px; font: 600 10px var(--mono); background: rgba(0,0,0,.6); color: #fff; padding: 2px 6px; border-radius: 4px; letter-spacing: .02em; }
 .thumb .play { position: absolute; inset: 0; margin: auto; width: 38px; height: 38px; border-radius: 99px; background: rgba(10,10,8,.55); backdrop-filter: blur(6px); display: grid; place-items: center; color: #fff; }
 .thumb .len { position: absolute; right: 8px; bottom: 8px; font: 500 10px var(--mono); background: rgba(0,0,0,.6); color: #fff; padding: 1px 5px; border-radius: 4px; }
+
+.stk-o * { fill: #fff; stroke: #fff; stroke-width: 10px; stroke-linejoin: round; }
+.stk-f * { stroke: #1d1712; stroke-width: 3.5px; stroke-linejoin: round; stroke-linecap: round; }

diff --git a/design/mockups/shot.html b/design/mockups/shot.html
@@ -8,5 +8,12 @@
 </head>
 <body>
 <script src="ui.js"></script>
+<script src="more.js"></script>
+<script>
+  const shot = SHOTS[new URLSearchParams(location.search).get("s") || "pc-site"];
+  document.body.className = "stage " + shot.stage;
+  document.body.innerHTML = shot.html();
+  window.SHOT = shot;
+</script>
 </body>
 </html>
